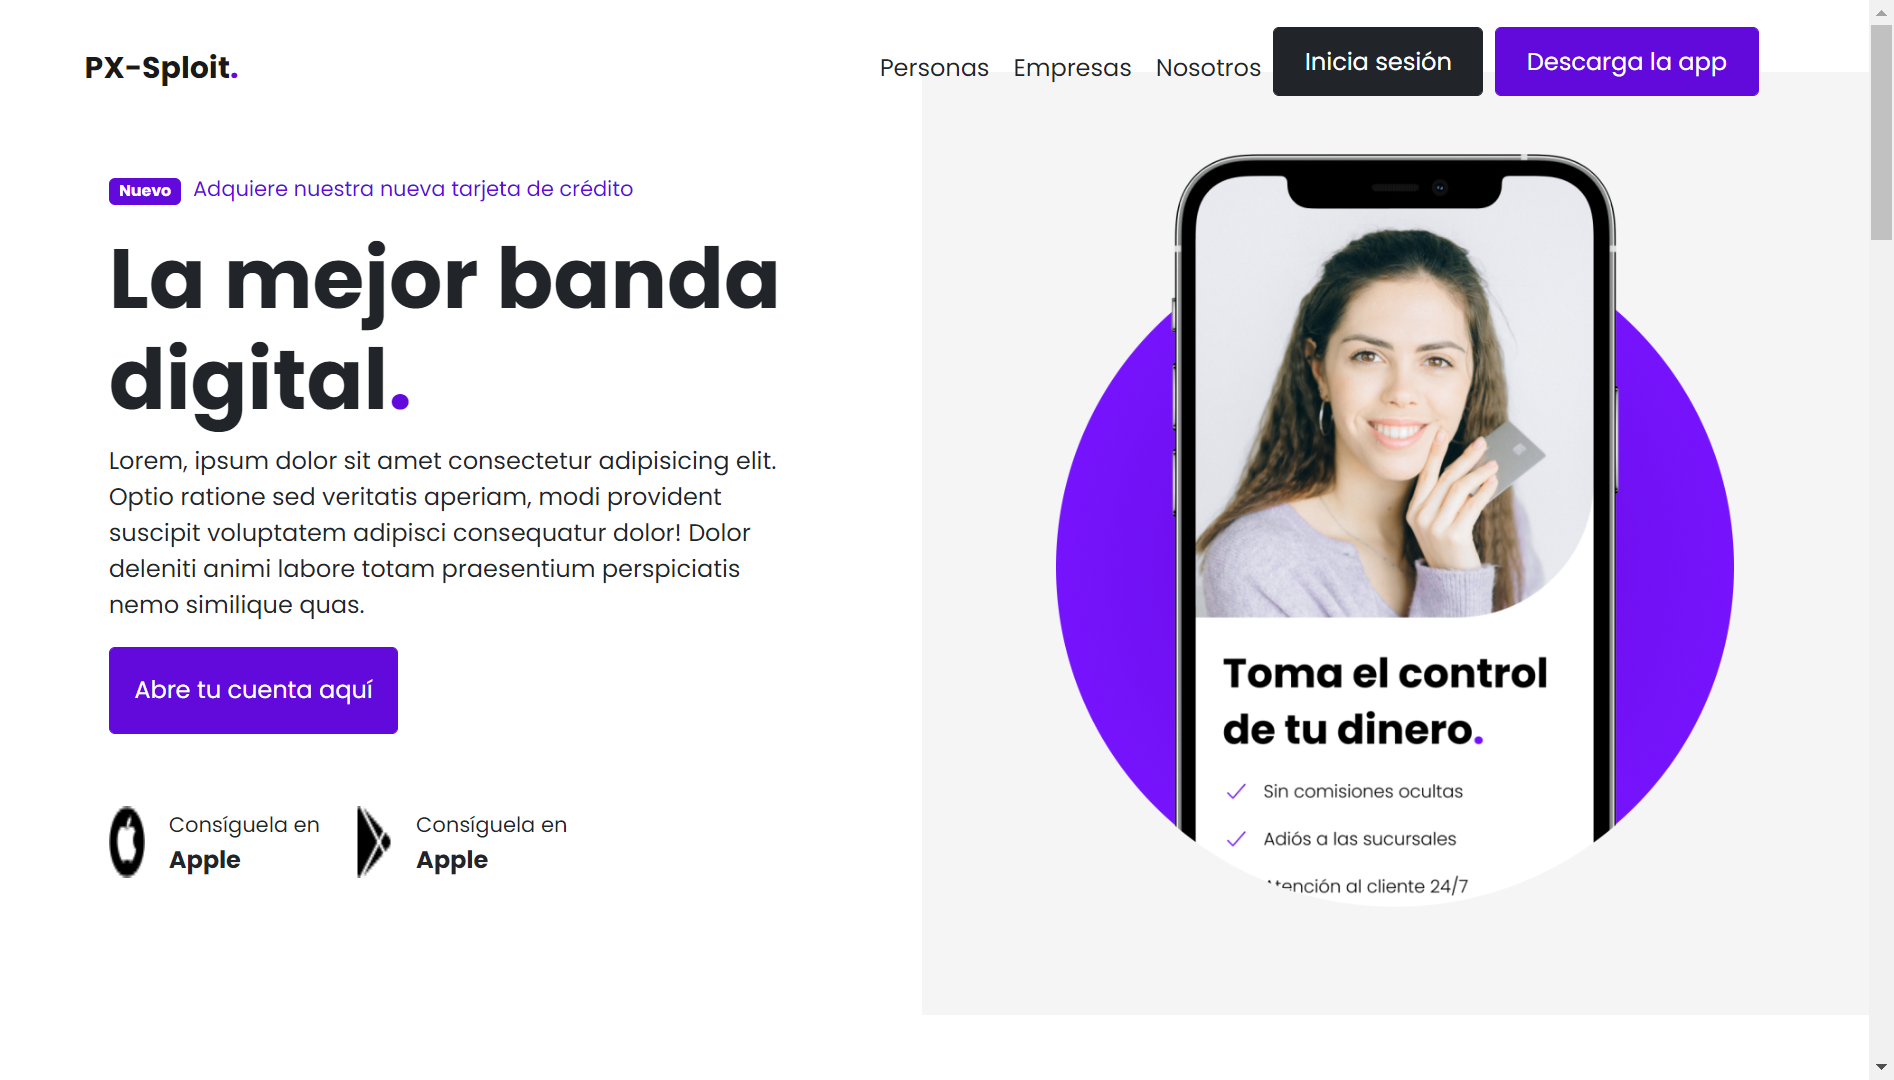
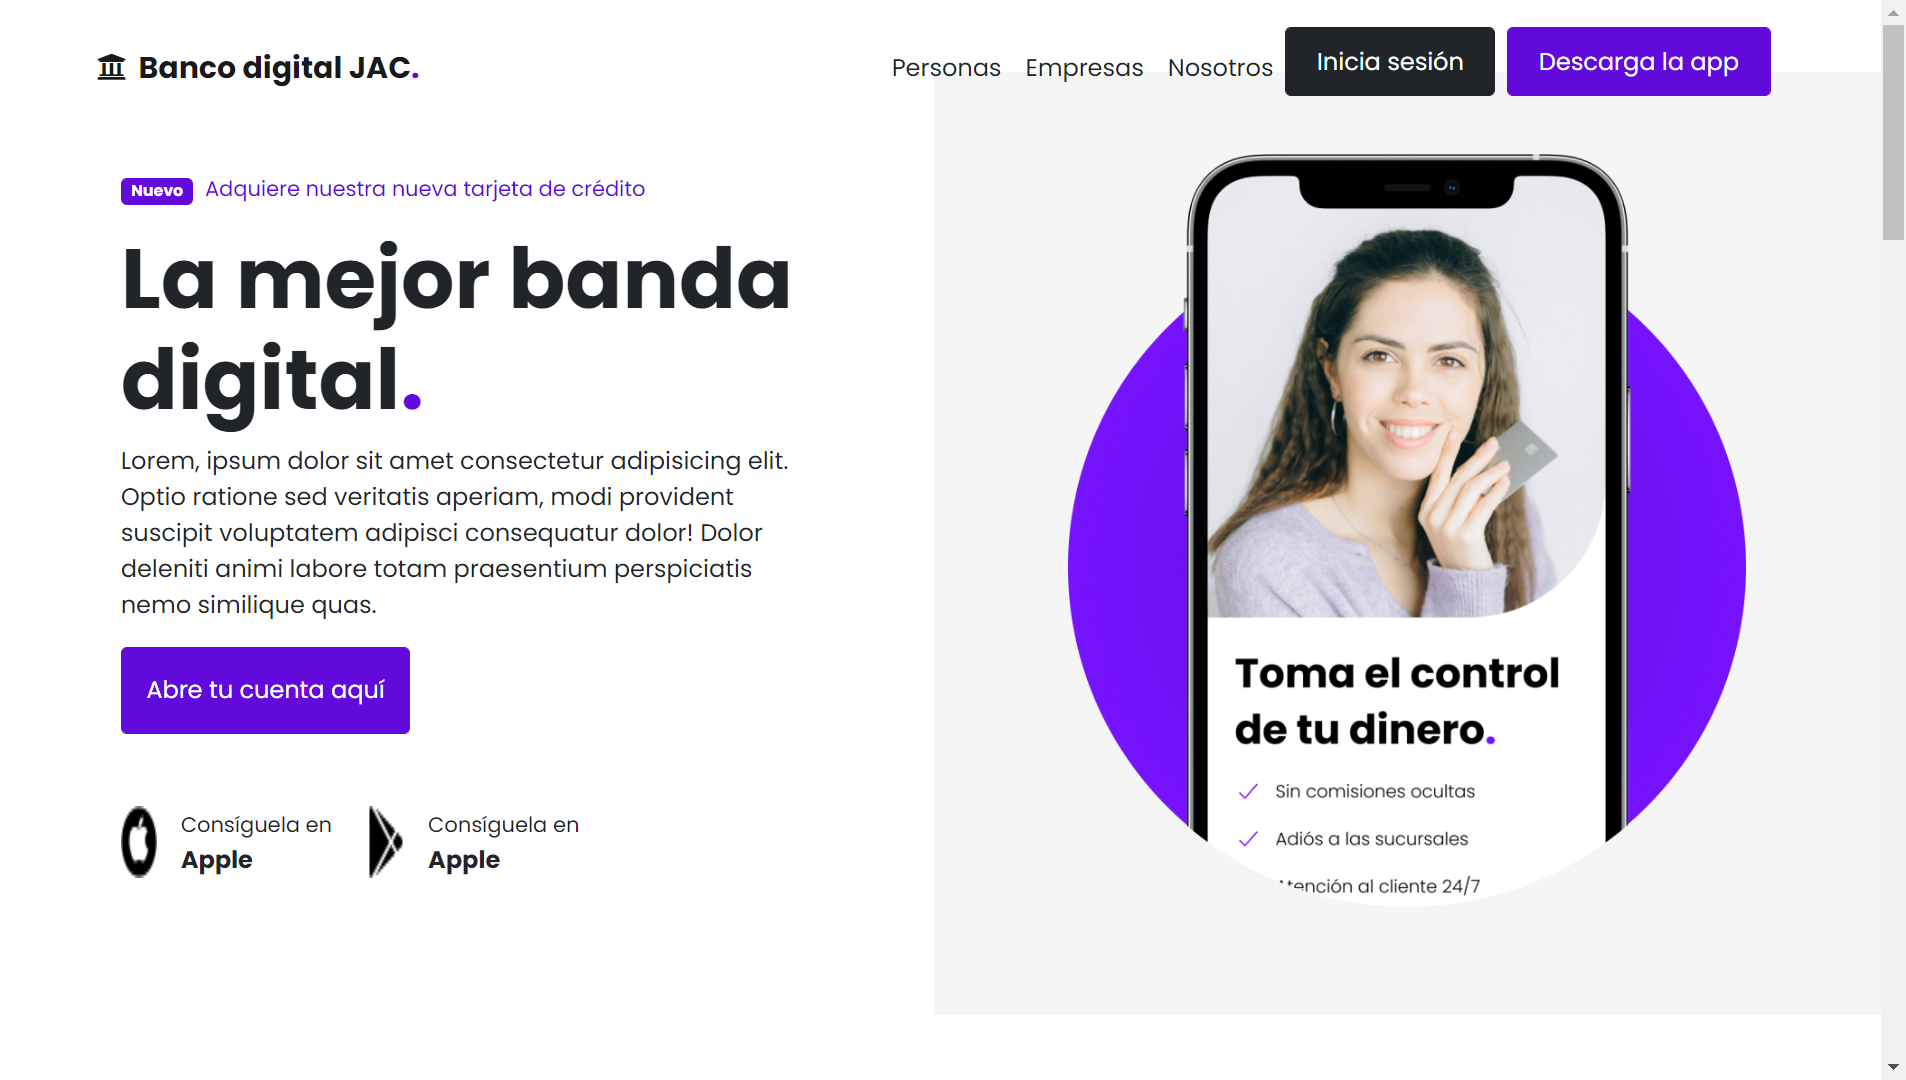
Practica de bootstrap 5, creación de una web

diff --git a/index.html b/index.html
@@ -26,7 +26,7 @@
 <body>
     <nav class="navbar navbar-expand-lg navbar-light bg-transparent position-absolute w-100">
         <div class="container">
-            <a class="navbar-brand fw-bold" href="#">PX-Sploit<span class="text-primary">.</span></a>
+            <a class="navbar-brand fw-bold" href="#"><i class="fas fa-university me-2"></i>Banco digital JAC<span class="text-primary">.</span></a>
             <button class="navbar-toggler border-0" type="button" data-bs-toggle="collapse"
                 data-bs-target="#navbarSupportedContent" aria-controls="navbarSupportedContent" aria-expanded="false"
                 aria-label="Toggle navigation">
